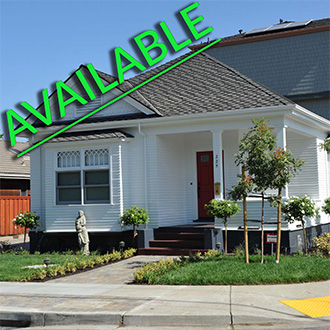
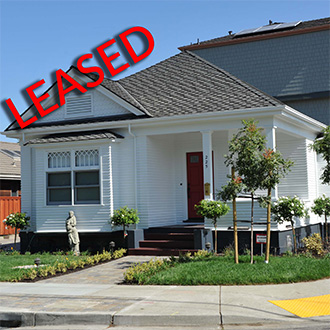
225leased

diff --git a/index.html b/index.html
@@ -590,7 +590,7 @@ _________________________________________________________ -->
 
                             <div class="col-sm-12 text-left" data-animate="fadeInUp">
 							<div style="text-align:center">
-                                <p style="text-align:center"><strong>Two homes are currently available. <a class="scrollTo" href="#references">225 W Angela St</a> and <a class="scrollTo" href="#references">452 Peters Ave.</a> Check back on our website for availability updates.</strong></p>
+                                <p style="text-align:center"><strong>One home is currently available. <a class="scrollTo" href="#references">452 Peters Ave.</a> Check back on our website for availability updates.</strong></p>
                                  
 								<p style="margin-bottom:40px"><strong><a href="mailto:info@angelarowhouses.com" target="_blank">Email us at info@angelarowhouses.com</a> or call <a href="tel:+1-925-400-7691">1-925-400-ROW1</a></strong></p>
 							</div>

diff --git a/225.html b/225.html
@@ -264,7 +264,7 @@ _________________________________________________________ -->
 
                             <div class="col-sm-12 text-left" data-animate="fadeInUp">
 							<div style="text-align:center">
-                                <p style="text-align:center"><strong>225 W Angela is currently available!</strong></p>
+                                <p style="text-align:center"><strong>225 W Angela is not currently available</strong></p>
                                  
 								<p style="margin-bottom:40px"><strong><a href="mailto:info@angelarowhouses.com" target="_blank">Email us at info@angelarowhouses.com</a> or call <a href="tel:+1-925-400-7691">1-925-400-ROW1</a> for more information</strong></p>
 							</div>
